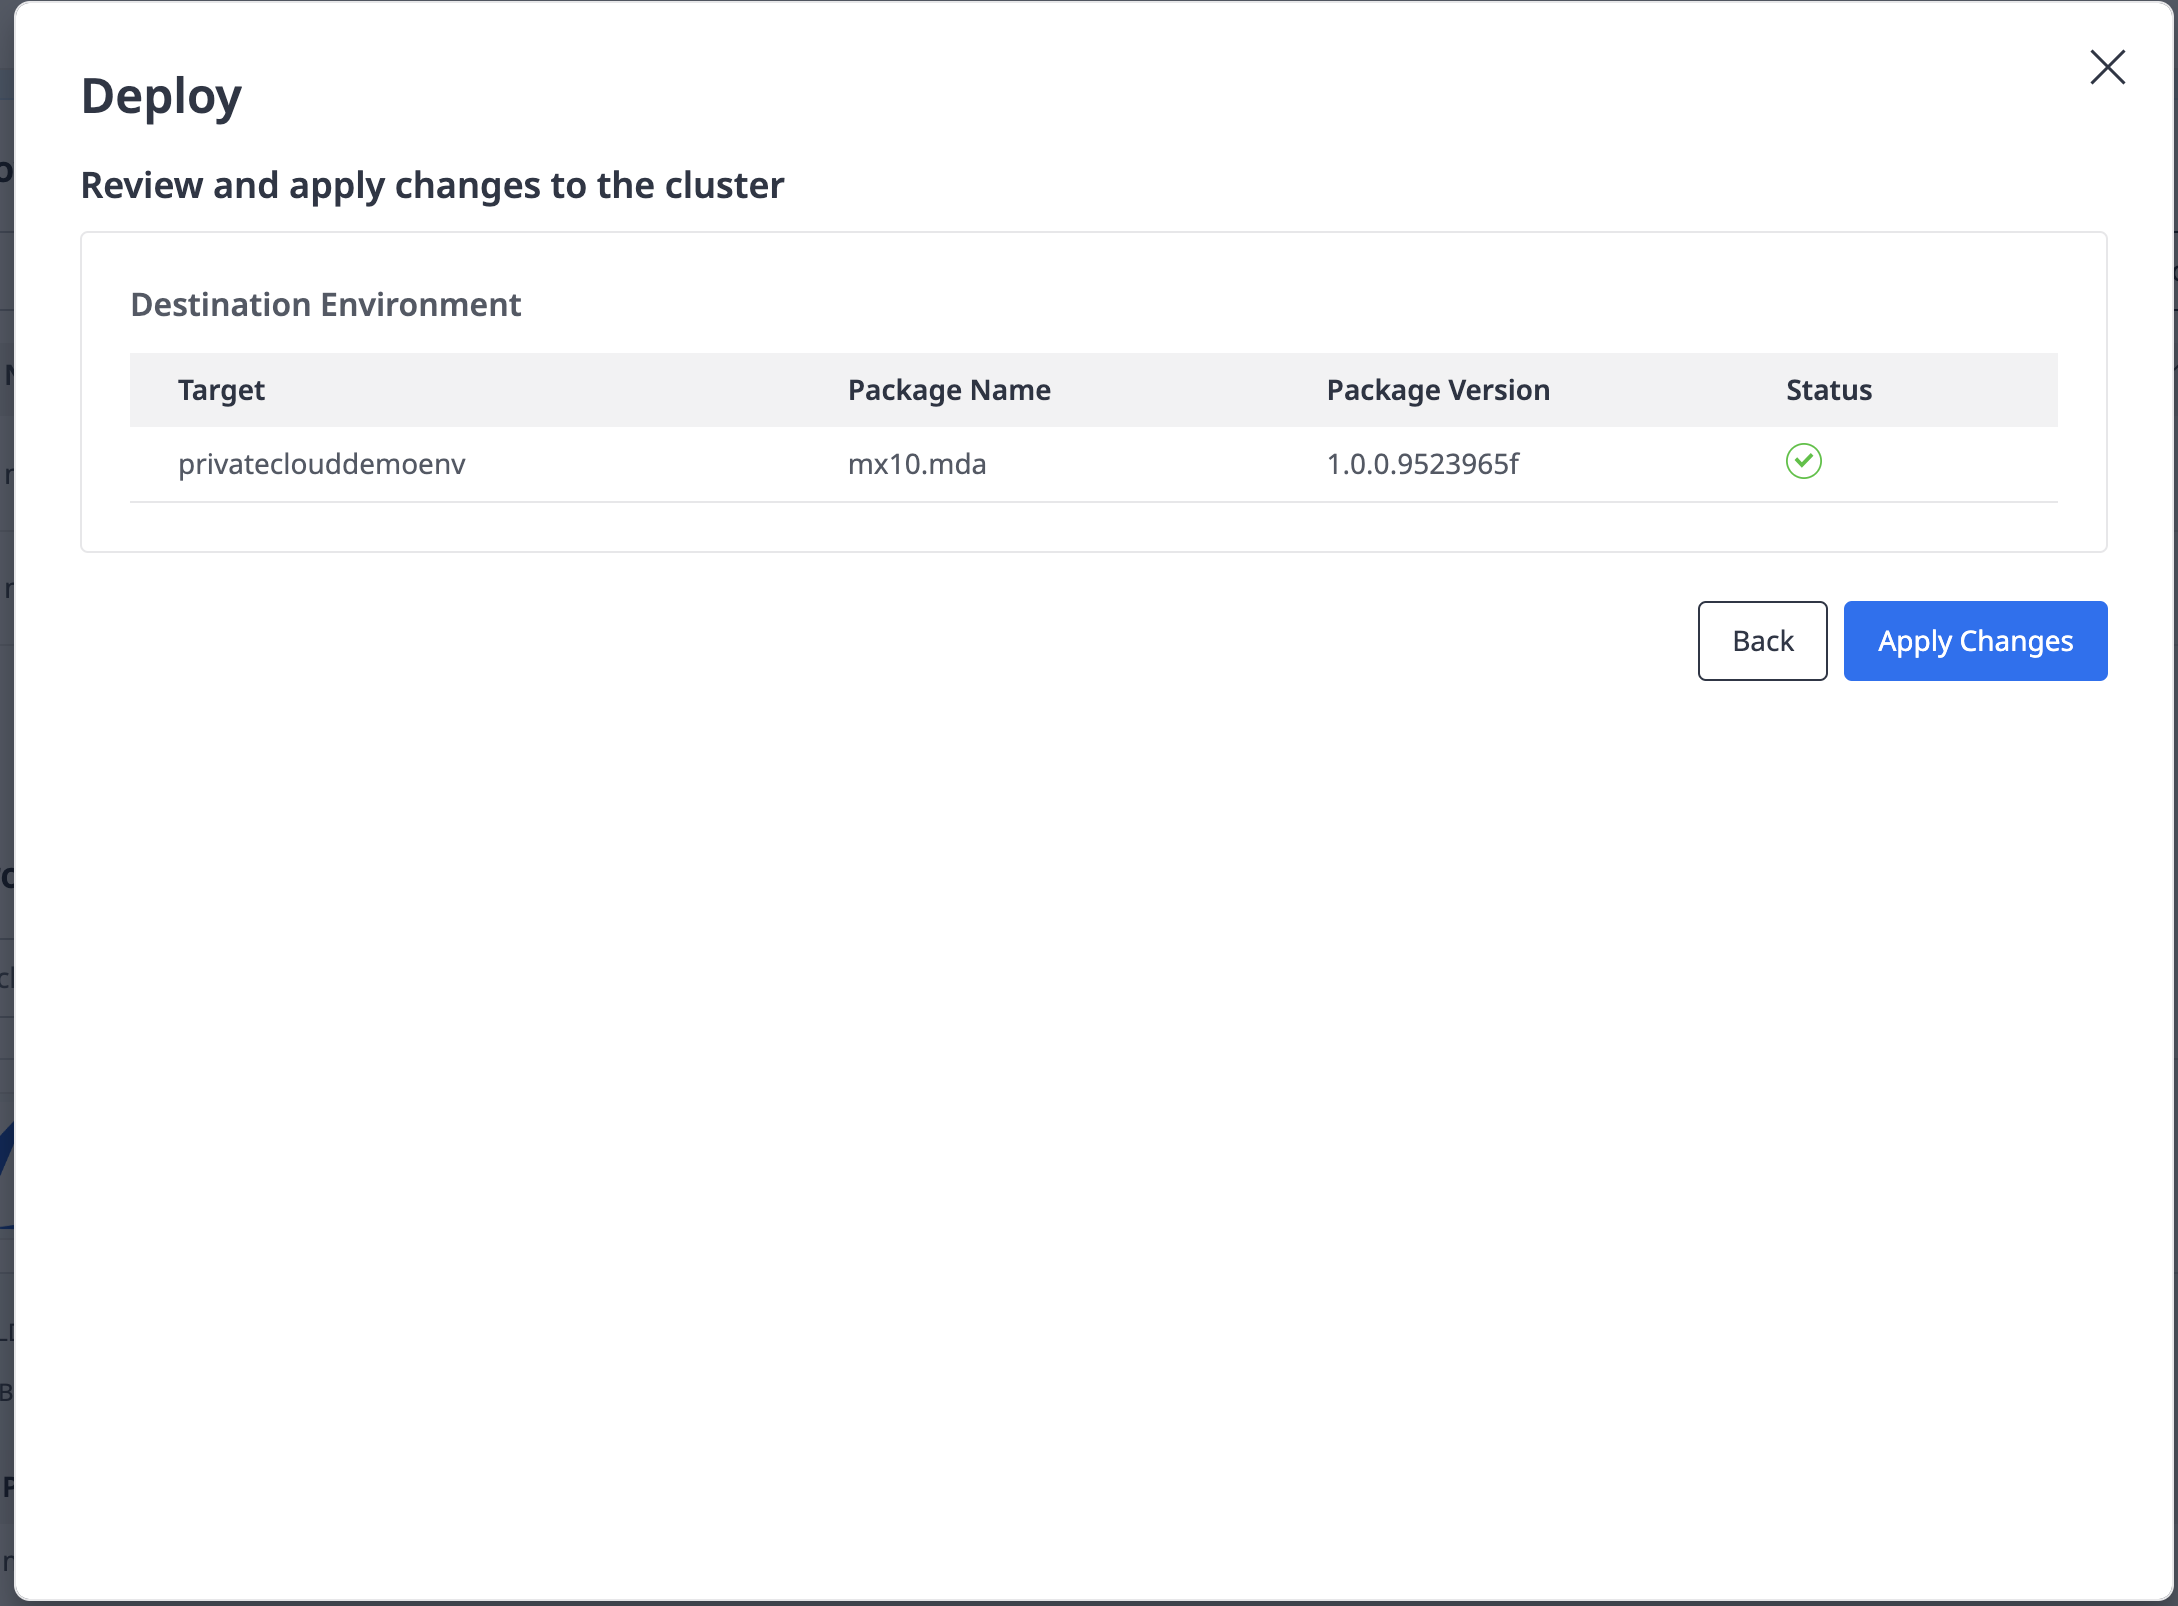
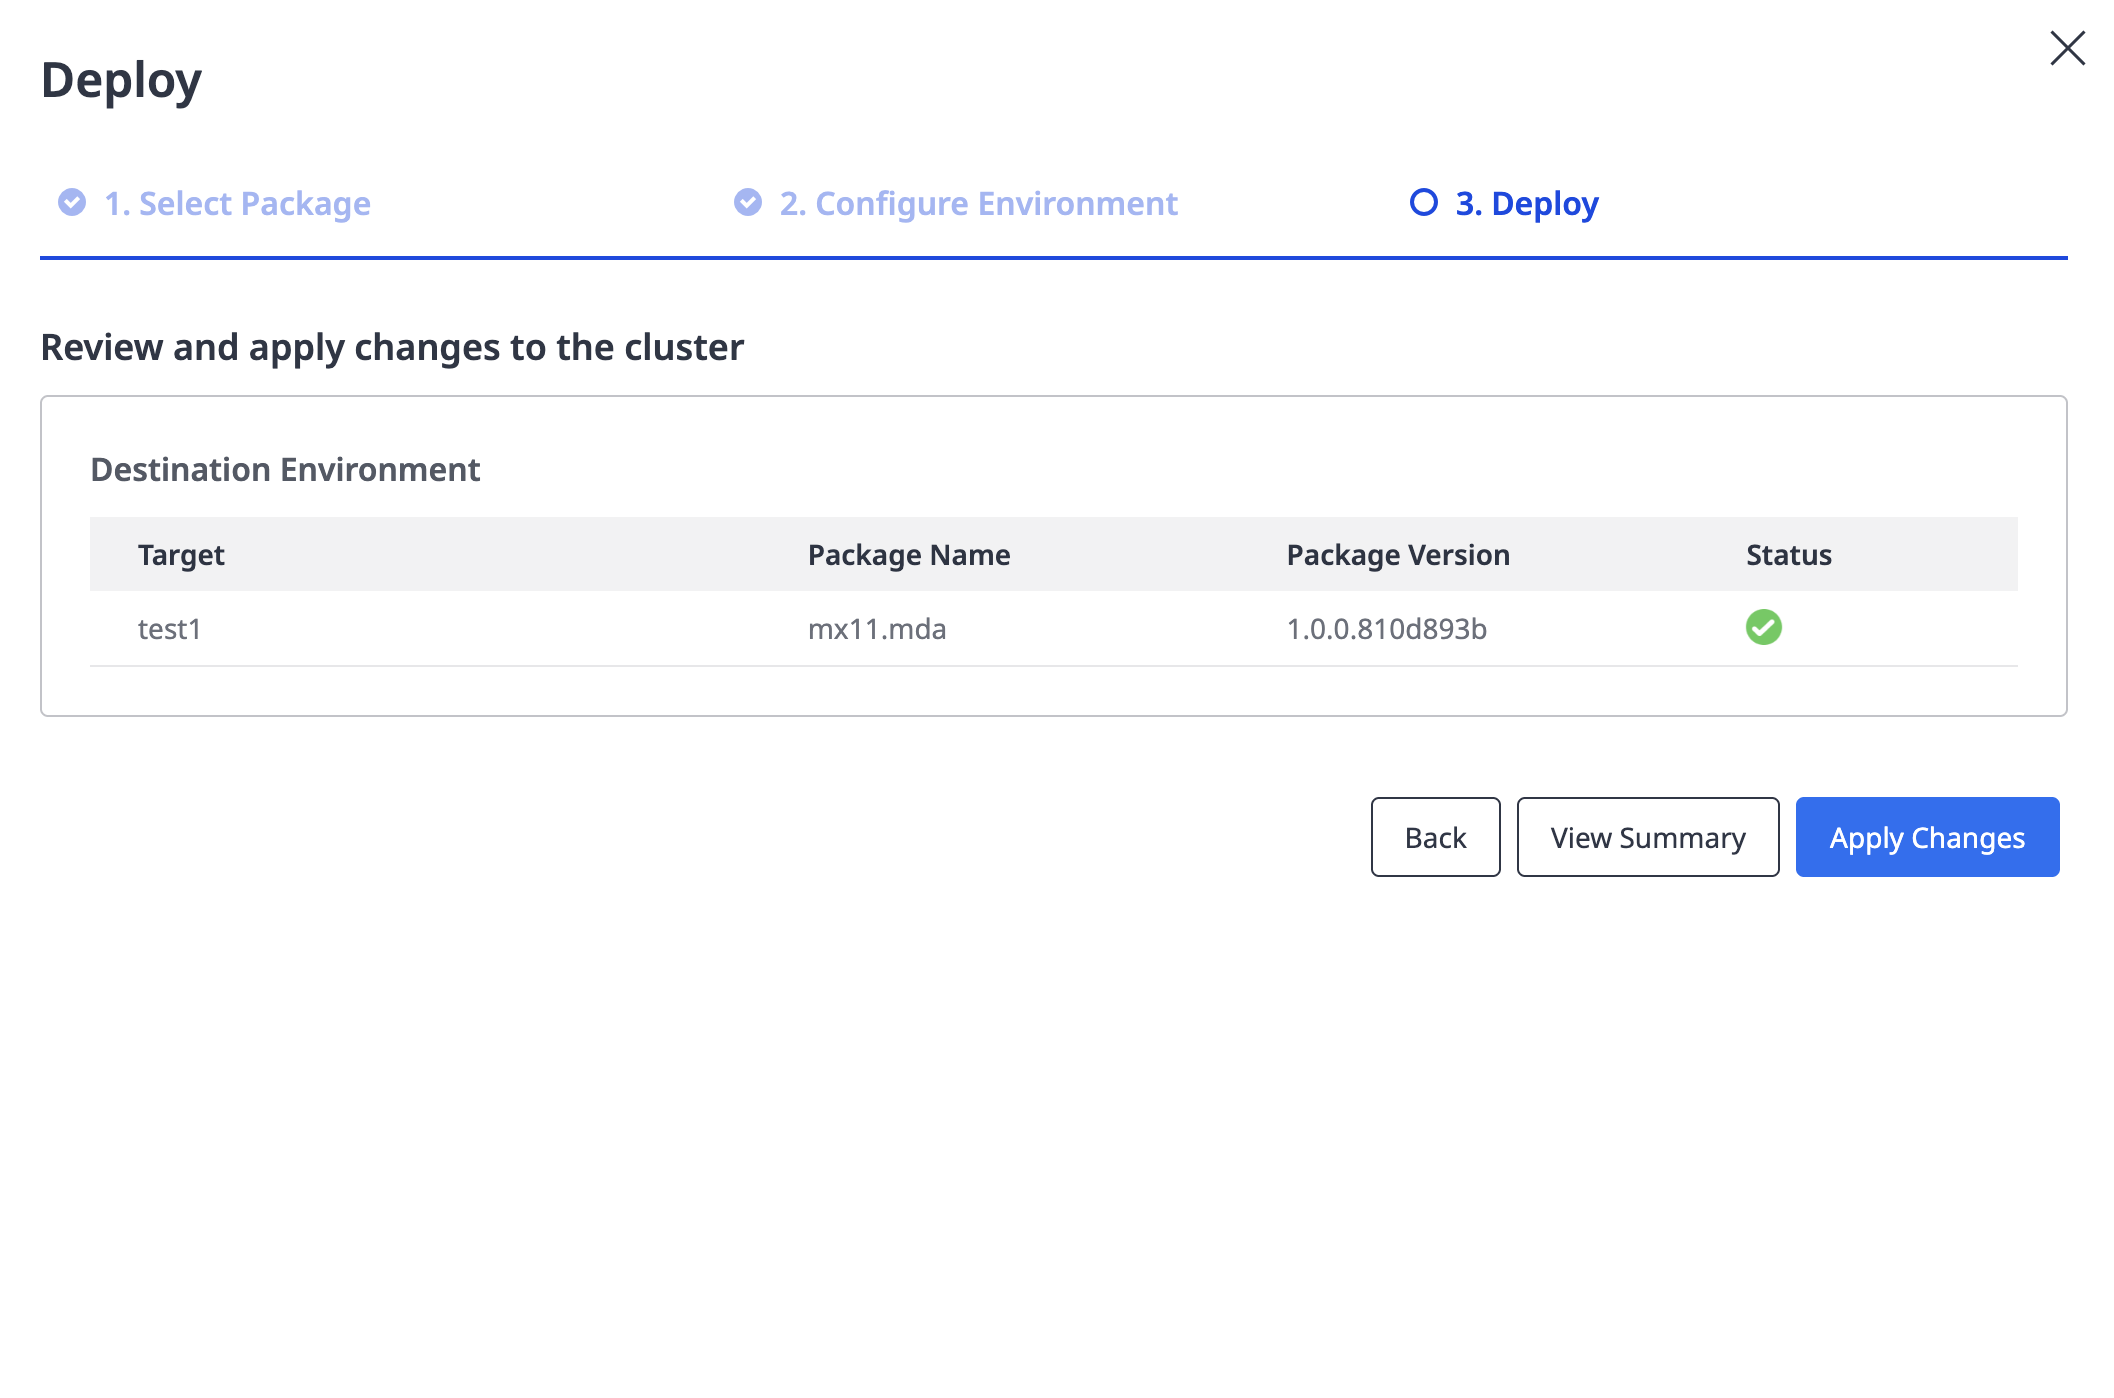
Added release notes for private cloud portal release 7.31.0

diff --git a/content/en/docs/deployment/private-cloud/private-cloud-deploy/_index.md b/content/en/docs/deployment/private-cloud/private-cloud-deploy/_index.md
@@ -210,9 +210,15 @@ You can deploy the deployment package of your app by doing the following:
 
     {{< figure src="/attachments/deployment/private-cloud/private-cloud-deploy/image16.png" class="no-border" >}}
 
-8. Click Apply Changes to deploy the application to the selected environment. The app will start automatically once the deployment is successful.
+8. Review the deployment details in the **Review and apply changes to the cluster** dialog. The deployment summary displays the target environment, package name, package version, and status. You can click **View Summary** to see detailed information about the changes included in this release, or click **Back** to make modifications.
 
-    {{< figure src="/attachments/deployment/private-cloud/private-cloud-deploy/ApplyChangesPage.png" class="no-border" >}}
+    {{< figure src="/attachments/deployment/private-cloud/private-cloud-deploy/ApplyChangesPage.png" alt="Review and apply changes dialog showing deployment summary with View Summary button" class="no-border" >}}
+
+9. Click **Apply Changes** to deploy the application to the selected environment. The app will start automatically once the deployment is successful.
+
+10. (Optional) Click **View Summary** to see the enhanced deployment package summary, which provides clearer visibility into the changes included in the release.
+
+    {{< figure src="/attachments/deployment/private-cloud/private-cloud-deploy/DeploymentPackageSummary.png" alt="Enhanced deployment package summary with detailed change information" class="no-border" >}}
 
 You can find a description of what this deployment means within the Kubernetes cluster in [How the Operator Deploys Your App](#how-operator-deploys), below.
 
@@ -292,6 +298,10 @@ This deploys the package to an existing environment as described in [Deploying t
 This section shows all the environments created for this app.
 
 For each environment, you can see a summary of the status of the resources and details of the package which is running in the environment.
+
+{{< figure src="/attachments/deployment/private-cloud/private-cloud-deploy/EnvironmentOverview.png" alt="Environments Overview showing environment details with build status and package information" class="no-border" >}}
+
+The environment card displays key information including environment ID, namespace, environment purpose, resource status indicators (Network, Storage, Database, Service Account), build status with replica information, and package details (name, version, URL, and Mendix version).
 
 You can perform the following actions:
 

diff --git a/content/en/docs/releasenotes/deployment/mendix-for-private-cloud.md b/content/en/docs/releasenotes/deployment/mendix-for-private-cloud.md
@@ -12,6 +12,17 @@ For information on the current status of deployment to Mendix on Kubernetes and 
 
 ## 2026
 
+### July 23, 2026
+
+#### Portal Improvements
+
+* We refreshed the portal and environment views to match the Public Cloud design.
+* We introduced direct links to environment details for streamlined operations desk navigation.
+* We removed outdated navigation options.
+* We enhanced deployment package summaries to give clearer visibility into upcoming release changes.
+* We resolved a security vulnerability in cluster invitation emails.
+* We fixed several dark mode, tooltip, and layout display issues.
+
 ### June 11, 2026
 
 #### License Manager CLI v0.10.11 {#0.10.11}
